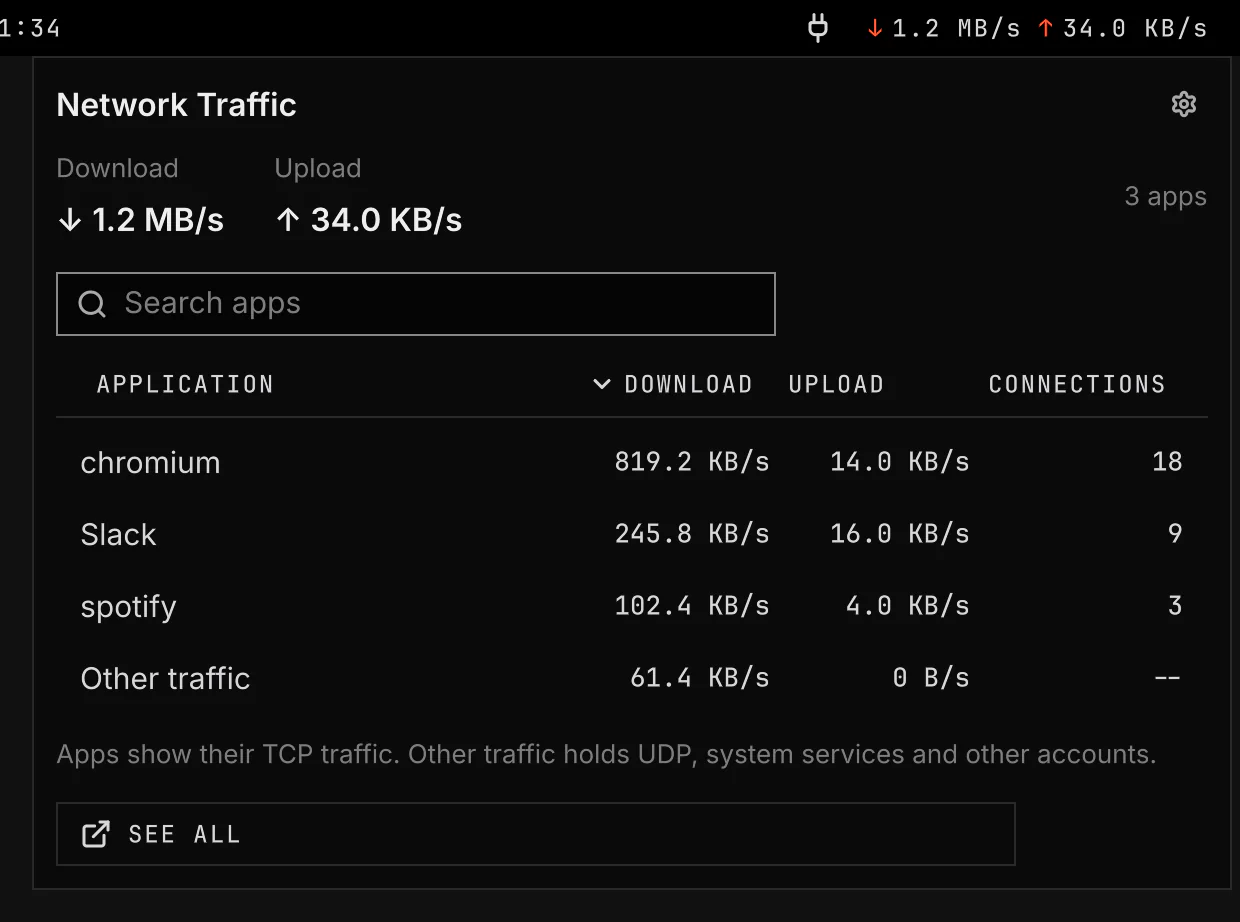
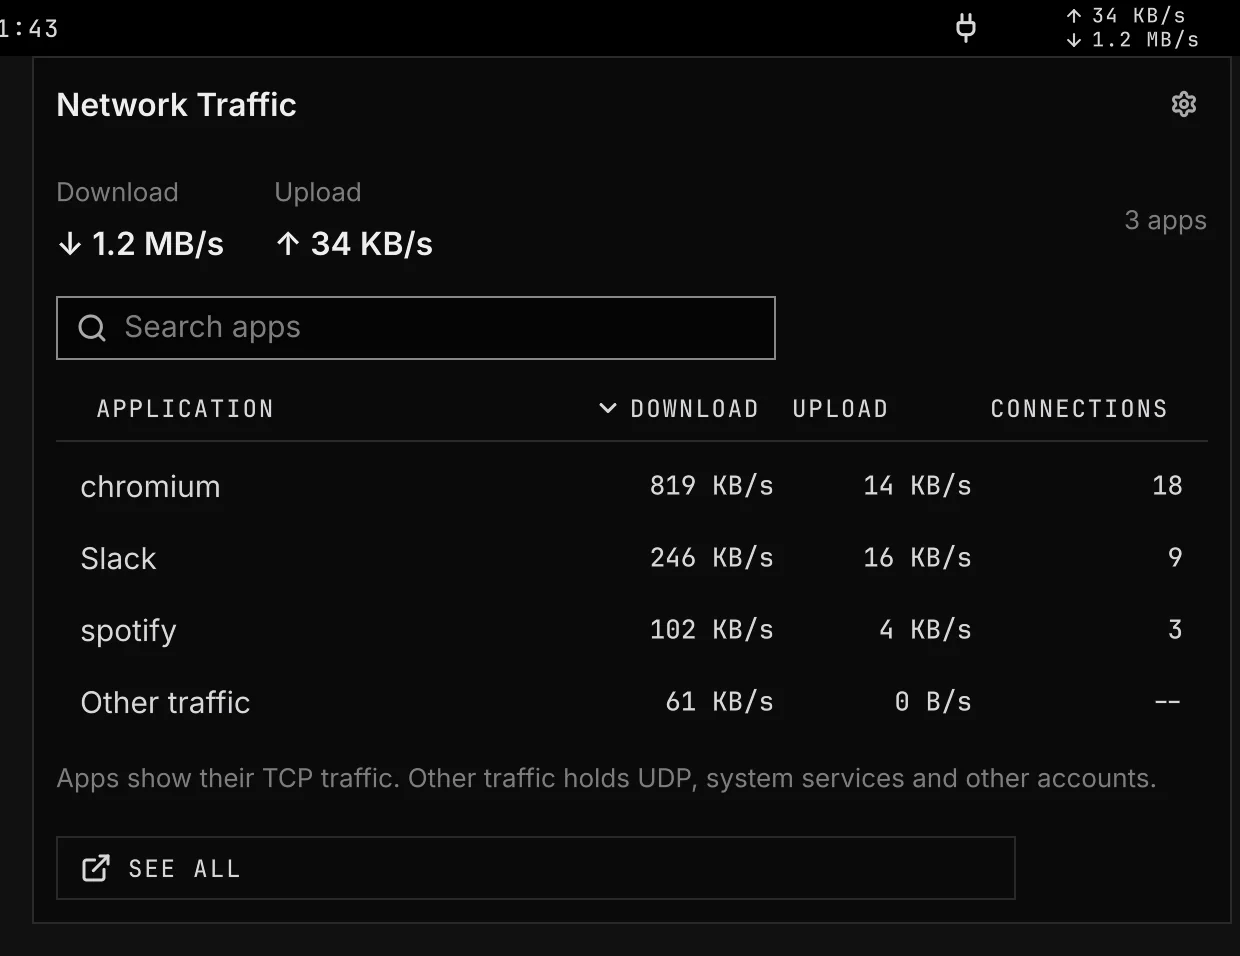
fix(VGS-1203): read widget defaults from the manifest and remake the README images
System Monitor and Network Traffic read each setting with no second copy
of the manifest default. The core hands a widget its settings only after
it builds it, so the reads stay free of type warnings until then: switches
compare with true and Traffic keeps its show mode and decimals untyped.
Both README images now show the stacked default, remade by
scripts/readme-shots.sh.

Claude-Session: https://claude.ai/code/session_014msWxV5BkSMBQESqjGr1cC

diff --git a/shell/plugins/vgs.sysmon/Widget.qml b/shell/plugins/vgs.sysmon/Widget.qml
@@ -14,13 +14,16 @@ BarWidget {
     property string leaseId: ""
     implicitWidth: row.implicitWidth
     implicitHeight: row.implicitHeight
-    readonly property bool captions: setting("labelStyle", "icons") === "text"
+    readonly property bool captions: setting("labelStyle") === "text"
     readonly property bool stacked: setting("layout") === "Stacked"
     readonly property var gpuTemperature: gpu && gpu.state !== "asleep" ? gpu.temperature : null
-    visible: setting("showCpu", true) || setting("showMemory", true) || (setting("showGpu", true) && gpu !== null)
+    // The manifest holds each default. The core hands `settings` only after
+    // the widget is built, so each switch compares with true: a bool property
+    // refuses the undefined first read.
+    visible: setting("showCpu") === true || setting("showMemory") === true || (setting("showGpu") === true && gpu !== null)
 
     function percent(value) { return typeof value === "number" ? Math.round(value) + "%" : "--"; }
-    function degrees(value) { return Logic.degrees(value, setting("temperatureUnit", "Celsius")); }
+    function degrees(value) { return Logic.degrees(value, setting("temperatureUnit")); }
     // The widest form of each reading, which its BarItem holds.
     readonly property string percentSample: percent(100)
     readonly property string degreesSample: degrees(100)
@@ -45,14 +48,14 @@ BarWidget {
         id: row
         spacing: Theme.bar.gap
         BarItem {
-            visible: root.setting("showCpu", true)
+            visible: root.setting("showCpu") === true
             label: "CPU"
             iconName: root.captions ? "" : "cpu"
             countIconName: root.captions ? "" : "thermometer"
             caption: root.captions ? "CPU" : ""
             countCaption: root.captions ? "TMP" : ""
             text: root.percent(root.cpu.use)
-            count: root.setting("cpuTemperature", false) ? root.degrees(root.cpu.temperature) : ""
+            count: root.setting("cpuTemperature") ? root.degrees(root.cpu.temperature) : ""
             textSample: root.percentSample
             countSample: root.degreesSample
             separator: "/"
@@ -63,16 +66,16 @@ BarWidget {
             onClicked: root.toggle()
         }
         BarItem {
-            visible: root.setting("showMemory", true)
+            visible: root.setting("showMemory") === true
             label: "Memory"
             iconName: root.captions ? "" : "memory-stick"
             countIconName: root.captions ? "" : "hard-drive"
             caption: root.captions ? "RAM" : ""
             countCaption: root.captions ? "SWP" : ""
-            text: root.setting("memoryUnit", "percent") === "used" ? root.gb(root.memory.used) : root.percent(root.memory.use)
-            count: root.setting("showSwap", false) ? root.percent(root.memory.swapUse) : ""
+            text: root.setting("memoryUnit") === "used" ? root.gb(root.memory.used) : root.percent(root.memory.use)
+            count: root.setting("showSwap") ? root.percent(root.memory.swapUse) : ""
             // Used memory never exceeds the total.
-            textSample: root.setting("memoryUnit", "percent") === "used" ? root.gb(root.memory.total) : root.percentSample
+            textSample: root.setting("memoryUnit") === "used" ? root.gb(root.memory.total) : root.percentSample
             countSample: root.percentSample
             separator: "/"
             stacked: root.stacked
@@ -81,14 +84,14 @@ BarWidget {
             onClicked: root.toggle()
         }
         BarItem {
-            visible: root.setting("showGpu", true) && root.gpu !== null
+            visible: root.setting("showGpu") === true && root.gpu !== null
             label: "GPU"
             iconName: root.captions ? "" : "gpu"
             countIconName: root.captions ? "" : "thermometer"
             caption: root.captions ? "GPU" : ""
             countCaption: root.captions ? "TMP" : ""
             text: root.percent(root.gpu && root.gpu.state === "asleep" ? null : root.gpu ? root.gpu.use : null)
-            count: root.setting("gpuTemperature", false) ? root.degrees(root.gpuTemperature) : ""
+            count: root.setting("gpuTemperature") ? root.degrees(root.gpuTemperature) : ""
             textSample: root.percentSample
             countSample: root.degreesSample
             separator: "/"

diff --git a/shell/plugins/vgs.traffic/Widget.qml b/shell/plugins/vgs.traffic/Widget.qml
@@ -6,14 +6,17 @@ import "TrafficLogic.js" as Logic
 BarWidget {
     id: root
     readonly property var traffic: shell === null ? ({}) : shell.status.values.traffic || ({})
-    readonly property string showMode: setting("show", "both")
+    // The manifest holds each default. The core hands `settings` only after
+    // the widget is built, so a typed int or string property would refuse the
+    // undefined first read; var keeps it until the values arrive.
+    readonly property var showMode: setting("show")
     // Stacked draws upload over download on BarItem's two short lines;
     // one shown speed stays one line.
     readonly property bool stacked: setting("layout") === "Stacked" && showMode === "both"
     // Text labels name each speed, UPL and DNL, in place of its arrow.
     readonly property bool captions: setting("labelStyle") === "text"
-    readonly property int kbDigits: setting("kbDecimals", 0)
-    readonly property int mbDigits: setting("mbDecimals", 1)
+    readonly property var kbDigits: setting("kbDecimals")
+    readonly property var mbDigits: setting("mbDecimals")
     function rate(value) { return Logic.formatRate(value, kbDigits, mbDigits); }
     readonly property string rateSample: Logic.rateSample(kbDigits, mbDigits)
 
